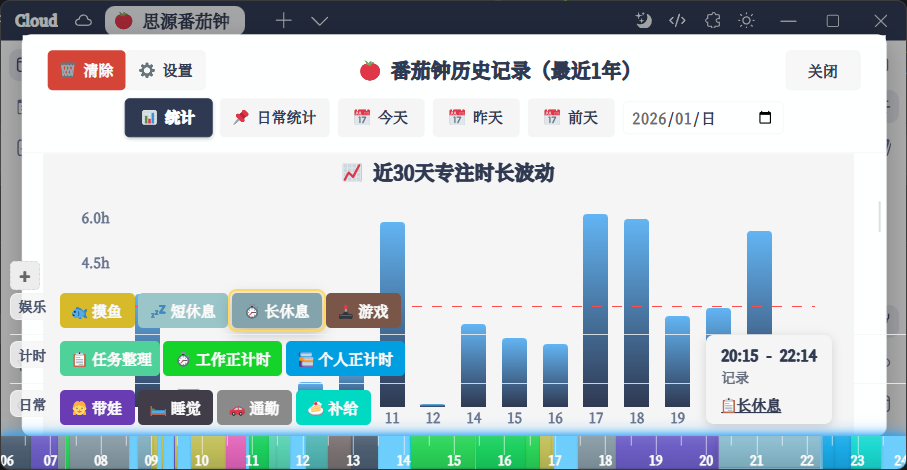
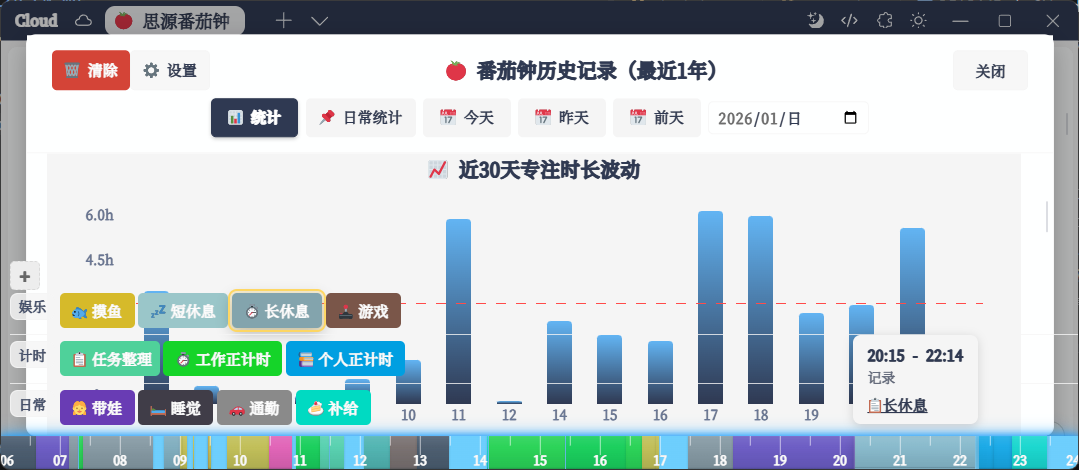
perf: reduce timeline overhead

diff --git a/tomato.js b/tomato.js
@@ -2114,61 +2114,72 @@
     }
 
     // ========== 历史记录管理 ==========
+    let __tomatoHistoryParseCache = {
+        source: '',
+        raw: '',
+        records: null
+    };
+    let __tomatoHistoryLoadPromise = null;
     async function loadHistoryRecords() {
-        try {
-            const r = await __tomatoGetFileText(HISTORY_FILE_PATH);
-            const text = r?.exists ? (r.text ?? '') : '';
-            if (text && String(text).trim()) {
-                let records = JSON.parse(text);
-                
-                records = records.map(record => {
+        if (__tomatoHistoryLoadPromise) return __tomatoHistoryLoadPromise;
+        __tomatoHistoryLoadPromise = (async () => {
+            const normalizeRecords = (records) => {
+                const list = Array.isArray(records) ? records : [];
+                const oneYearAgo = Date.now() - 365 * 24 * 60 * 60 * 1000;
+                const mapped = list.map(record => {
                     if (record && record.end) {
                         record.date = formatDateKey(record.end);
                         record.timePeriod = getTimePeriod(toDateSafe(record.end).getHours());
                     }
-                    if (record.date) {
+                    if (record?.date) {
                         record.date = normalizeLegacyDate(record.date);
-                    } else if (record.start) {
+                    } else if (record?.start) {
                         record.date = formatDateKey(record.end || record.start);
                     }
                     return record;
                 });
-                
-                const oneYearAgo = Date.now() - 365 * 24 * 60 * 60 * 1000;
-                const filtered = records.filter(r => {
+                const filtered = mapped.filter(r => {
                     try { return toDateSafe(r.end || r.start).getTime() >= oneYearAgo; } catch (e) { return false; }
                 });
-                
-                if (filtered.length !== records.length) {
-                    records = filtered;
+                return filtered;
+            };
+
+            try {
+                const r = await __tomatoGetFileText(HISTORY_FILE_PATH);
+                const text = r?.exists ? (r.text ?? '') : '';
+                const raw = String(text || '');
+                if (raw.trim()) {
+                    if (__tomatoHistoryParseCache?.source === 'file' && __tomatoHistoryParseCache?.raw === raw && Array.isArray(__tomatoHistoryParseCache?.records)) {
+                        return __tomatoHistoryParseCache.records;
+                    }
+                    const parsed = JSON.parse(raw);
+                    const normalized = normalizeRecords(parsed);
+                    __tomatoHistoryParseCache = { source: 'file', raw, records: normalized };
+                    return normalized;
                 }
-                return records;
+            } catch (e) {
+                Logger.warn('读取历史记录失败:', e.message);
             }
-        } catch (e) {
-            Logger.warn('读取历史记录失败:', e.message);
-        }
+
+            try {
+                const raw = String(localStorage.getItem('siyuan-tomato-history') || '');
+                if (!raw.trim()) return [];
+                if (__tomatoHistoryParseCache?.source === 'localStorage' && __tomatoHistoryParseCache?.raw === raw && Array.isArray(__tomatoHistoryParseCache?.records)) {
+                    return __tomatoHistoryParseCache.records;
+                }
+                const parsed = JSON.parse(raw);
+                const normalized = normalizeRecords(parsed);
+                __tomatoHistoryParseCache = { source: 'localStorage', raw, records: normalized };
+                return normalized;
+            } catch (e) {
+                return [];
+            }
+        })();
+
         try {
-            const raw = localStorage.getItem('siyuan-tomato-history');
-            if (!raw || !raw.trim()) return [];
-            let records = JSON.parse(raw);
-            records = (records || []).map(record => {
-                if (record && record.end) {
-                    record.date = formatDateKey(record.end);
-                    record.timePeriod = getTimePeriod(toDateSafe(record.end).getHours());
-                }
-                if (record?.date) {
-                    record.date = normalizeLegacyDate(record.date);
-                } else if (record?.start) {
-                    record.date = formatDateKey(record.end || record.start);
-                }
-                return record;
-            });
-            const oneYearAgo = Date.now() - 365 * 24 * 60 * 60 * 1000;
-            return (records || []).filter(r => {
-                try { return toDateSafe(r.end || r.start).getTime() >= oneYearAgo; } catch (e) { return false; }
-            });
-        } catch (e) {
-            return [];
+            return await __tomatoHistoryLoadPromise;
+        } finally {
+            __tomatoHistoryLoadPromise = null;
         }
     }
 
@@ -2199,6 +2210,7 @@
                         Logger.debug('🍅 保存历史记录后已清除缓存');
                     }
                 }
+                __tomatoHistoryParseCache = { source: '', raw: '', records: null };
                 return true;
             } else {
                 throw new Error('思源API保存失败');
@@ -8210,7 +8222,7 @@
                 mode: record.mode,
                 recordTimestamp: record.timestamp,
                 distractionCount: record.distractionCount || 0
-            }, layerEl);
+            }, layerEl, true);
         }
     }
 
@@ -8219,7 +8231,7 @@
         return d.getHours() * 60 + d.getMinutes() + d.getSeconds() / 60;
     }
 
-    function drawTimelineSegment(startMin, endMin, color, opacity, offsetMin, totalMin, label, meta = null, parentEl = null) {
+    function drawTimelineSegment(startMin, endMin, color, opacity, offsetMin, totalMin, label, meta = null, parentEl = null, interactive = true) {
         const parent = parentEl || timelineActiveLayer || timelineSegments;
         if (!parent) return;
         if (endMin <= startMin) return;
@@ -8267,7 +8279,7 @@
                     background: ${color}; opacity: ${opacity};
                 `;
             }
-            seg.style.pointerEvents = 'auto';
+            seg.style.pointerEvents = interactive ? 'auto' : 'none';
             seg.style.transition = 'filter 0.12s ease, box-shadow 0.12s ease, transform 0.12s ease';
             const baseBoxShadow = seg.style.boxShadow || '';
             seg.dataset.timelineLabel = label || '';
@@ -8286,30 +8298,32 @@
                 seg.classList.add('breathing');
             }
 
-            const hasTask = !!(segMeta?.taskBlockId);
-            if (hasTask) seg.style.cursor = 'pointer';
+            if (interactive) {
+                const hasTask = !!(segMeta?.taskBlockId);
+                if (hasTask) seg.style.cursor = 'pointer';
 
-            seg.addEventListener('click', (e) => {
-                e.stopPropagation();
-                showTimelineTooltipForSegment(seg);
-            });
+                seg.addEventListener('click', (e) => {
+                    e.stopPropagation();
+                    showTimelineTooltipForSegment(seg);
+                });
 
-            seg.addEventListener('mouseenter', (e) => {
-                if (timelineTooltipHideTimer) clearTimeout(timelineTooltipHideTimer);
-                timelineTooltipHideTimer = null;
-                const hoverBrightness = 1.06 + (0.06 * glassIntensity);
-                const hoverSaturate = 1.04 + (0.06 * glassIntensity);
-                const hoverOutlineA = 0.16 + (0.12 * glassIntensity);
-                seg.style.filter = `brightness(${hoverBrightness}) saturate(${hoverSaturate})`;
-                seg.style.transform = 'translateY(-0.5px)';
-                seg.style.boxShadow = (baseBoxShadow ? (baseBoxShadow + ', ') : '') + `0 0 0 1px rgba(255,255,255,${hoverOutlineA}), 0 4px 12px rgba(0,0,0,0.25)`;
-                showTimelineTooltipForSegment(seg);
-            });
-            seg.addEventListener('mouseleave', (e) => {
-                seg.style.filter = '';
-                seg.style.transform = '';
-                seg.style.boxShadow = baseBoxShadow;
-            });
+                seg.addEventListener('mouseenter', (e) => {
+                    if (timelineTooltipHideTimer) clearTimeout(timelineTooltipHideTimer);
+                    timelineTooltipHideTimer = null;
+                    const hoverBrightness = 1.06 + (0.06 * glassIntensity);
+                    const hoverSaturate = 1.04 + (0.06 * glassIntensity);
+                    const hoverOutlineA = 0.16 + (0.12 * glassIntensity);
+                    seg.style.filter = `brightness(${hoverBrightness}) saturate(${hoverSaturate})`;
+                    seg.style.transform = 'translateY(-0.5px)';
+                    seg.style.boxShadow = (baseBoxShadow ? (baseBoxShadow + ', ') : '') + `0 0 0 1px rgba(255,255,255,${hoverOutlineA}), 0 4px 12px rgba(0,0,0,0.25)`;
+                    showTimelineTooltipForSegment(seg);
+                });
+                seg.addEventListener('mouseleave', (e) => {
+                    seg.style.filter = '';
+                    seg.style.transform = '';
+                    seg.style.boxShadow = baseBoxShadow;
+                });
+            }
 
             parent.appendChild(seg);
         };
@@ -8403,7 +8417,7 @@
                 endIso: new Date(endTs).toISOString(),
                 mode: 'countdown',
                 isActive: true
-            }, layerEl);
+            }, layerEl, false);
             drawTimelineSegment(startM, Math.min(nowM, endM), tomatoColor, 0.85, offsetMin, totalMin, '🍅 已专注', {
                 taskBlockId: currentTaskBlockId,
                 taskBlockName: currentTaskBlockName,
@@ -8413,7 +8427,7 @@
                 mode: 'countdown',
                 isActive: true,
                 isCurrent: true
-            }, layerEl);
+            }, layerEl, false);
             return;
         }
 
@@ -8432,7 +8446,7 @@
                 mode: 'stopwatch',
                 isActive: true,
                 isCurrent: true
-            }, layerEl);
+            }, layerEl, false);
             return;
         }
 
@@ -8454,7 +8468,7 @@
                 endIso: new Date(currentTs).toISOString(),
                 mode: timerMode,
                 isCurrent: false
-            }, layerEl);
+            }, layerEl, false);
             return;
         }
 
@@ -8474,7 +8488,7 @@
                 endIso: new Date(currentTs).toISOString(),
                 mode: 'stopwatch-break',
                 isCurrent: true
-            }, layerEl);
+            }, layerEl, false);
         }
     }
 
